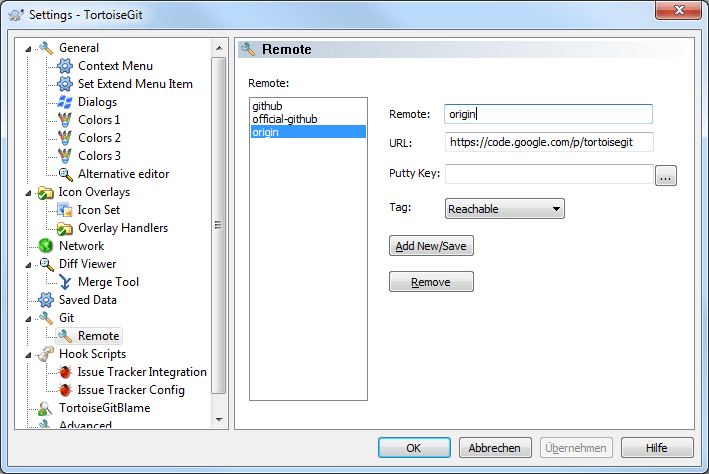
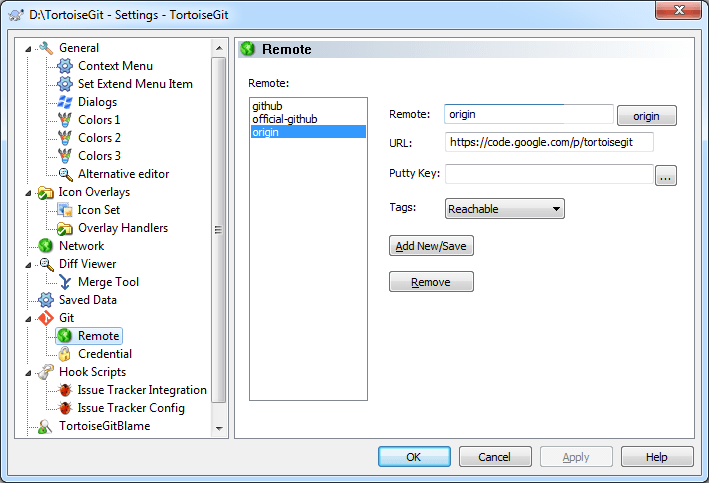
Add button to add remote named 'origin', then focus URL textbox

diff --git a/src/TortoiseProc/Settings/SettingGitRemote.cpp b/src/TortoiseProc/Settings/SettingGitRemote.cpp
@@ -68,6 +68,7 @@ BEGIN_MESSAGE_MAP(CSettingGitRemote, CPropertyPage)
 	ON_EN_CHANGE(IDC_EDIT_PUTTY_KEY, &CSettingGitRemote::OnEnChangeEditPuttyKey)
 	ON_CBN_SELCHANGE(IDC_COMBO_TAGOPT, &CSettingGitRemote::OnCbnSelchangeComboTagOpt)
 	ON_BN_CLICKED(IDC_BUTTON_REMOVE, &CSettingGitRemote::OnBnClickedButtonRemove)
+	ON_BN_CLICKED(IDC_BUTTON_ORIGIN, &CSettingGitRemote::OnBnClickedButtonOrigin)
 END_MESSAGE_MAP()
 
 BOOL CSettingGitRemote::OnInitDialog()
@@ -367,4 +368,11 @@ void CSettingGitRemote::OnBnClickedButtonRemove()
 			OnLbnSelchangeListRemote();
 		}
 	}
+}
+
+void CSettingGitRemote::OnBnClickedButtonOrigin()
+{
+	m_strRemote = _T("origin");
+	GetDlgItem(IDC_EDIT_URL)->SetFocus();
+	UpdateData(FALSE);
 }

diff --git a/src/TortoiseProc/resource.h b/src/TortoiseProc/resource.h
@@ -1276,6 +1276,7 @@
 #define IDC_COMBO_SIMPLECREDENTIAL      1752
 #define IDS_DLGTITLE_EDIT_DIFF_TOOL     1752
 #define IDS_DLGTITLE_EDIT_MERGE_TOOL    1753
+#define IDC_BUTTON_ORIGIN               1753
 #define IDS_DLGTITLE_ADV_DIFF           1754
 #define IDS_DLGTITLE_ADV_MERGE          1755
 #define IDS_REVGRAPH_POPUP_COMPAREREVS  1757
@@ -1725,7 +1726,7 @@
 #ifndef APSTUDIO_READONLY_SYMBOLS
 #define _APS_NEXT_RESOURCE_VALUE        347
 #define _APS_NEXT_COMMAND_VALUE         32860
-#define _APS_NEXT_CONTROL_VALUE         1753
+#define _APS_NEXT_CONTROL_VALUE         1754
 #define _APS_NEXT_SYMED_VALUE           201
 #endif
 #endif

diff --git a/src/TortoiseProc/Settings/SettingGitRemote.h b/src/TortoiseProc/Settings/SettingGitRemote.h
@@ -57,6 +57,7 @@ protected:
 	afx_msg void OnEnChangeEditPuttyKey();
 	afx_msg void OnCbnSelchangeComboTagOpt();
 	afx_msg void OnBnClickedButtonRemove();
+	afx_msg void OnBnClickedButtonOrigin();
 
 	BOOL OnInitDialog();
 	BOOL OnApply();
